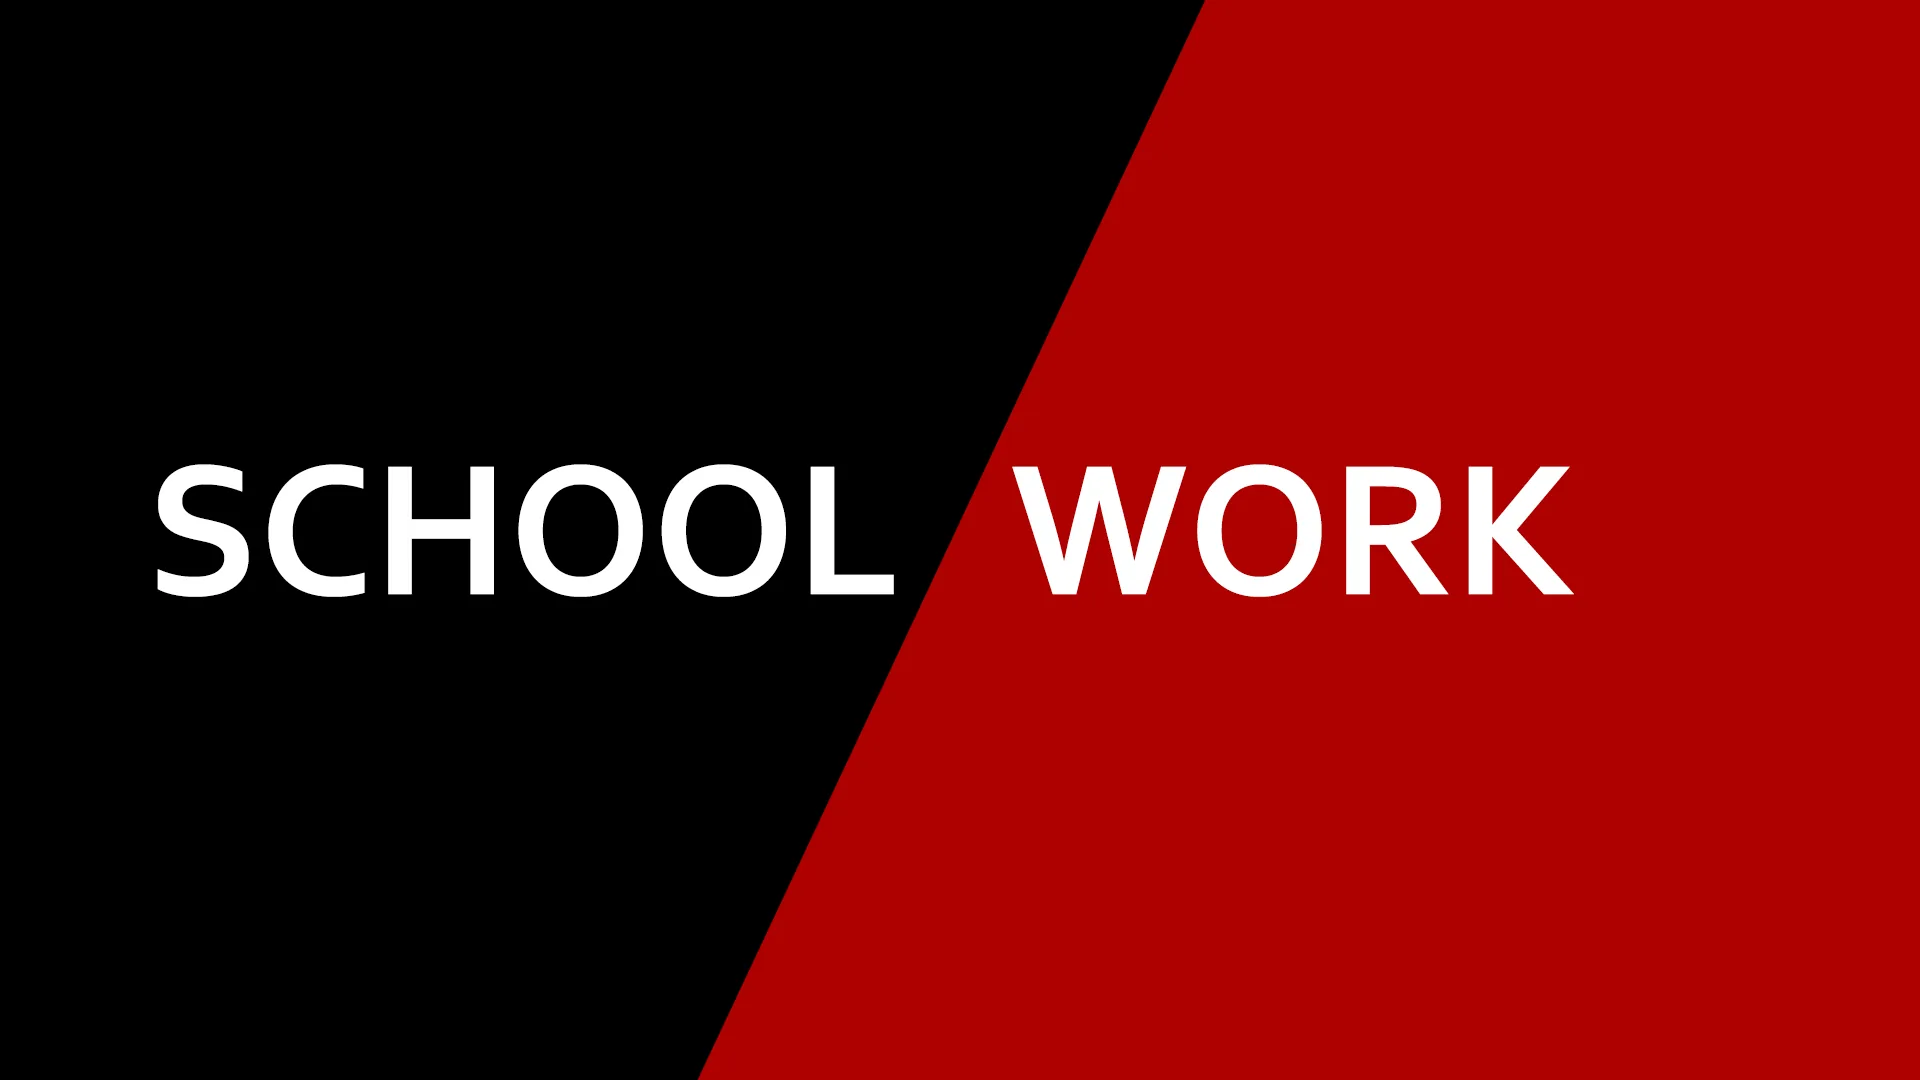
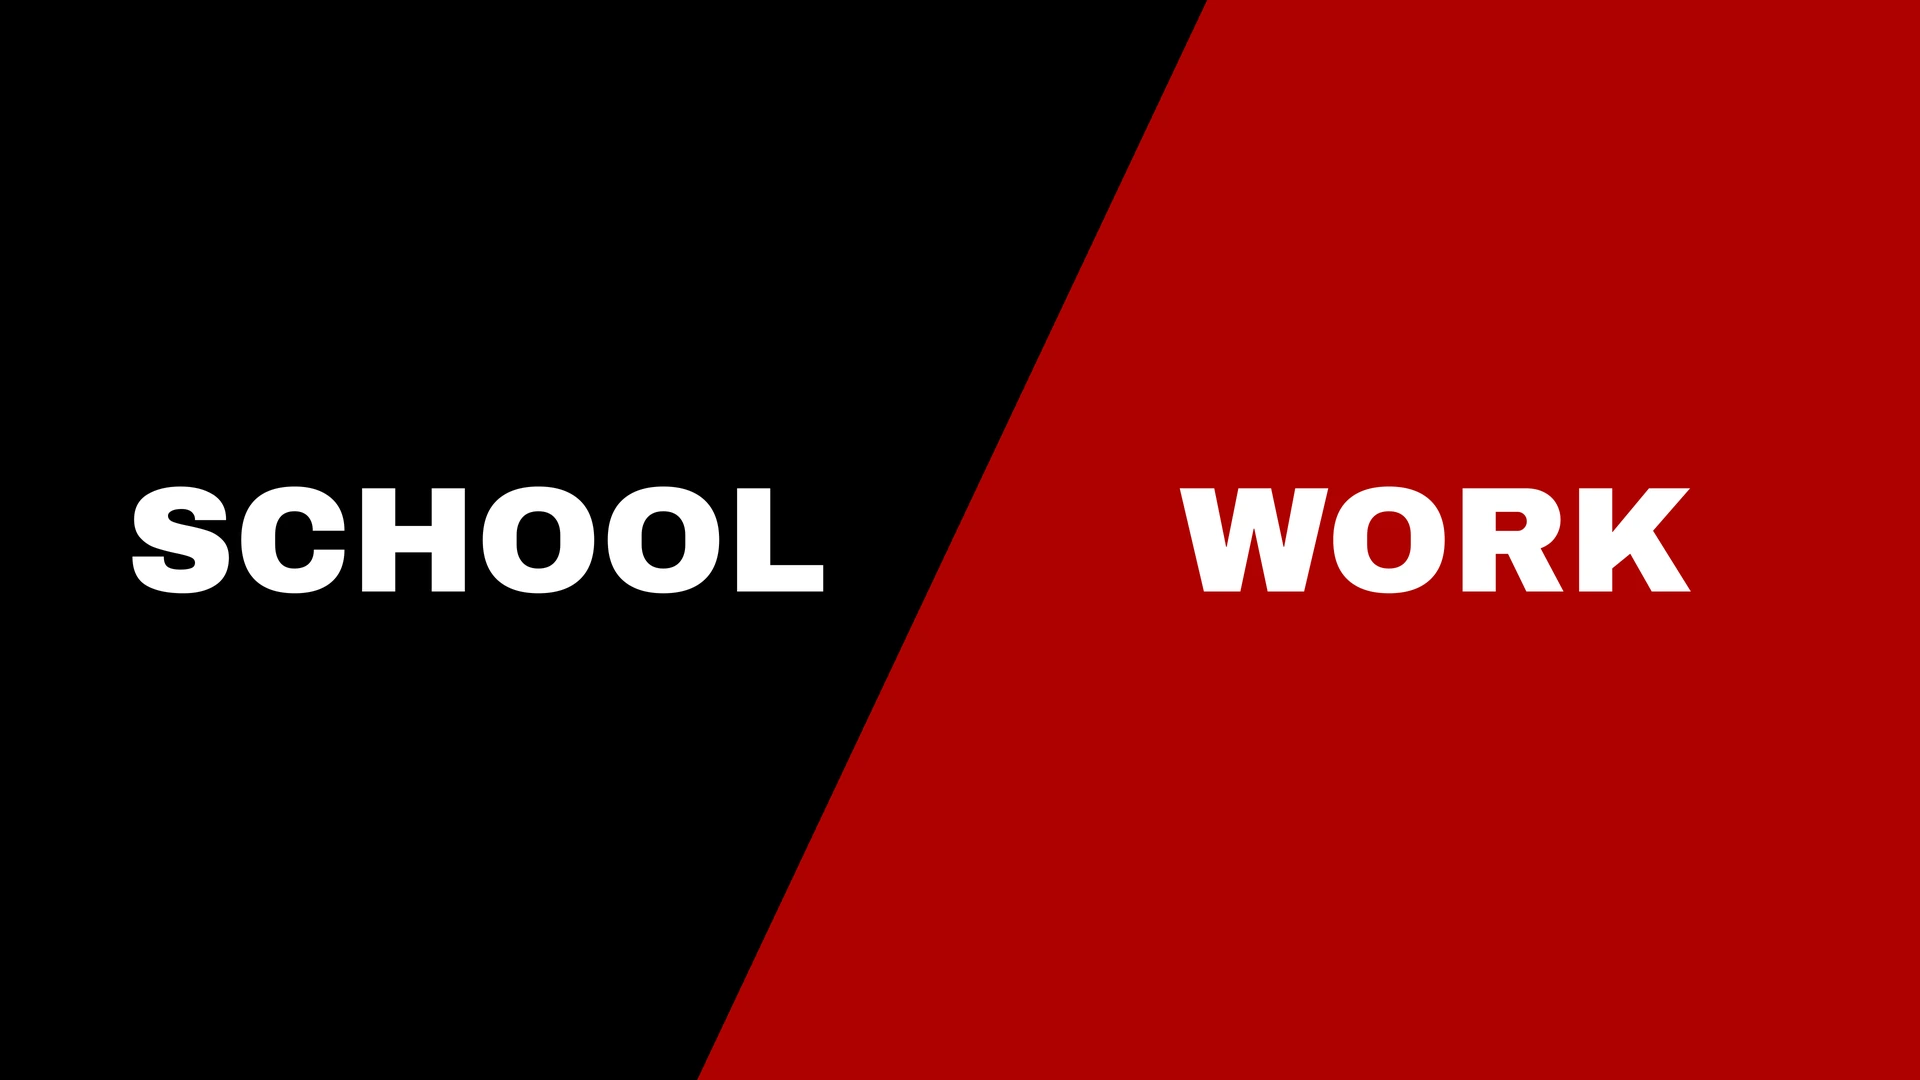
Align Hardt.wip with portfolio core; refine covers and card copy
- Round corners across the wip site (14px frames, pill buttons, lightbox)
- Single heart x SE lockup used in wip header and footer (no text logo)
- Equalize heart and SE sizes in lockup cover and new logo asset
- Rebuild School Work cover in Archivo Black to match the type family
- Portfolio header now shrinks on scroll like the wip header
- Work cards: role shown in red, name as headline (Geely Design, Volvo)

Claude-Session: https://claude.ai/code/session_011BZobHrMCezaiAiAUYwP2m

Changed region(s): [[0.0625, 0.4278, 0.4688, 0.55], [0.5, 0.4278, 0.875, 0.55]]

diff --git a/mixtape/wip.css b/mixtape/wip.css
@@ -14,6 +14,8 @@
 	--body: "Space Grotesk", sans-serif;
 	--out: cubic-bezier(0.23, 1, 0.32, 1);
 	--wrap: 1240px;
+	--radius: 14px;
+	--radius-lg: 22px;
 }
 
 * { box-sizing: border-box; margin: 0; padding: 0; }
@@ -88,15 +90,11 @@ a { color: inherit; }
 .wip-mark {
 	display: inline-flex;
 	align-items: center;
-	gap: 0.55rem;
-	font-family: var(--display);
-	font-size: 1.05rem;
-	letter-spacing: 0.02em;
 	text-decoration: none;
 	line-height: 1;
 }
-.wip-mark img { flex: none; }
-.wip-mark span { color: var(--red); }
+.wip-mark img { flex: none; width: auto; height: 30px; }
+.wip-mark.small img { height: 26px; }
 
 .wip-nav {
 	display: flex;
@@ -215,6 +213,7 @@ a { color: inherit; }
 	text-decoration: none;
 	padding: 0.95rem 1.9rem;
 	border: 1px solid var(--red);
+	border-radius: 999px;
 	transition: background-color 180ms ease, border-color 180ms ease, transform 160ms var(--out);
 }
 .btn:hover { background: var(--red-deep); border-color: var(--red-deep); }
@@ -342,6 +341,7 @@ a { color: inherit; }
 	width: 100%;
 	padding: 0;
 	border: 1px solid var(--line);
+	border-radius: var(--radius);
 	background: none;
 	cursor: pointer;
 	overflow: hidden;
@@ -436,7 +436,6 @@ a { color: inherit; }
 	gap: 1.5rem;
 	flex-wrap: wrap;
 }
-.wip-mark.small { font-size: 0.95rem; }
 .foot-se {
 	display: inline-flex;
 	align-items: center;
@@ -446,7 +445,6 @@ a { color: inherit; }
 	text-decoration: none;
 	transition: color 180ms ease;
 }
-.foot-se img { flex: none; }
 .foot-se:hover { color: var(--ink); }
 .foot-copy {
 	font-size: 0.85rem;
@@ -481,6 +479,7 @@ a { color: inherit; }
 	width: auto;
 	height: auto;
 	border: 1px solid var(--line);
+	border-radius: var(--radius);
 }
 .lightbox-close {
 	position: fixed;

diff --git a/index.html b/index.html
@@ -140,7 +140,7 @@
 							<img src="images/scott/scott_f.webp" alt="Scott Sports industrial design modeling" loading="lazy">
 						</div>
 						<div class="work-card-body">
-							<div class="work-card-cat">Scott Sports &middot; Jun 2026 &ndash; Present</div>
+							<div class="work-card-cat">Jr Design Modeler &middot; Jun 2026 &ndash; Present</div>
 							<h3>Scott Sports</h3>
 						</div>
 					</a>
@@ -149,7 +149,7 @@
 							<img src="images/kia/kia_f.webp" alt="Kia Europe digital modeling" loading="lazy">
 						</div>
 						<div class="work-card-body">
-							<div class="work-card-cat">Kia Europe &middot; 2024 &ndash; 2026</div>
+							<div class="work-card-cat">Digital Modeler &middot; 2024 &ndash; 2026</div>
 							<h3>Kia Europe</h3>
 						</div>
 					</a>
@@ -158,8 +158,8 @@
 							<img src="images/internship/int_f.webp" alt="Zeekr and Lynk &amp; Co concept design work from Geely Design Center internship" loading="lazy">
 						</div>
 						<div class="work-card-body">
-							<div class="work-card-cat">Internship Nov 23 - May 24</div>
-							<h3>Internship</h3>
+							<div class="work-card-cat">Intern Digital Modeler &middot; Nov 2023 &ndash; May 2024</div>
+							<h3>Geely Design</h3>
 						</div>
 					</a>
 					<a class="work-card" href="projects/volvo.html" data-reveal>
@@ -167,8 +167,8 @@
 							<img src="images/volvo/volvo_f1.webp" alt="Volvo AI-generated concept car design" loading="lazy">
 						</div>
 						<div class="work-card-body">
-							<div class="work-card-cat">Volvo AI Concept &middot; Aug 2023 &ndash; Nov 2023</div>
-							<h3>Volvo AI Concept</h3>
+							<div class="work-card-cat">Digital Modeler &middot; Aug &ndash; Nov 2023</div>
+							<h3>Volvo</h3>
 						</div>
 					</a>
 					<a class="work-card" href="projects/school.html" data-reveal>

diff --git a/css/style.css b/css/style.css
@@ -190,7 +190,7 @@ main > section + section::before {
 	align-items: center;
 	background: transparent;
 	box-shadow: 0 1px 0 rgba(255,255,255,0);
-	transition: background-color 500ms var(--ease), backdrop-filter 500ms var(--ease), box-shadow 500ms var(--ease);
+	transition: background-color 500ms var(--ease), backdrop-filter 500ms var(--ease), box-shadow 500ms var(--ease), height 400ms var(--ease);
 }
 /* slight, constant gradient for legibility over the hero image while unscrolled */
 .site-header::before {
@@ -213,6 +213,10 @@ main > section + section::before {
 	backdrop-filter: blur(16px) saturate(140%);
 	-webkit-backdrop-filter: blur(16px) saturate(140%);
 	box-shadow: 0 1px 0 rgba(255,255,255,0.08), 0 12px 30px rgba(0,0,0,0.35);
+	height: calc(var(--nav-h) - 14px);
+}
+@media (prefers-reduced-motion: reduce) {
+	.site-header { transition: none; }
 }
 .site-header.is-scrolled::before { opacity: 0; }
 .site-header .container {

diff --git a/mixtape/index.html b/mixtape/index.html
@@ -30,7 +30,7 @@
 
 	<header class="wip-header" id="header">
 		<div class="wrap">
-			<a class="wip-mark" href="#top"><img src="../images/index/heart.webp" alt="" width="26" height="26">HARDT<span>.WIP</span></a>
+			<a class="wip-mark" href="#top" aria-label="Hardt.wip home"><img src="../images/index/hardtwip_logo.png" alt="Hardt.wip, heart and Samuel Engelhardt logos" height="30"></a>
 			<nav class="wip-nav" aria-label="Site">
 				<a href="#archive">Archive</a>
 				<a href="#about">About</a>
@@ -143,8 +143,8 @@
 
 	<footer class="wip-footer">
 		<div class="wrap">
-			<a class="wip-mark small" href="#top"><img src="../images/index/heart.webp" alt="" width="22" height="22">HARDT<span>.WIP</span></a>
-			<a class="foot-se" href="../index.html"><img src="../images/index/logo.png" alt="" width="28" height="28"> Part of Samuel Engelhardt</a>
+			<a class="wip-mark small" href="#top" aria-label="Back to top"><img src="../images/index/hardtwip_logo.png" alt="Hardt.wip, heart and Samuel Engelhardt logos" height="26"></a>
+			<a class="foot-se" href="../index.html">Part of Samuel Engelhardt</a>
 			<span class="foot-copy">&copy; 2026 Hardt.wip</span>
 		</div>
 	</footer>